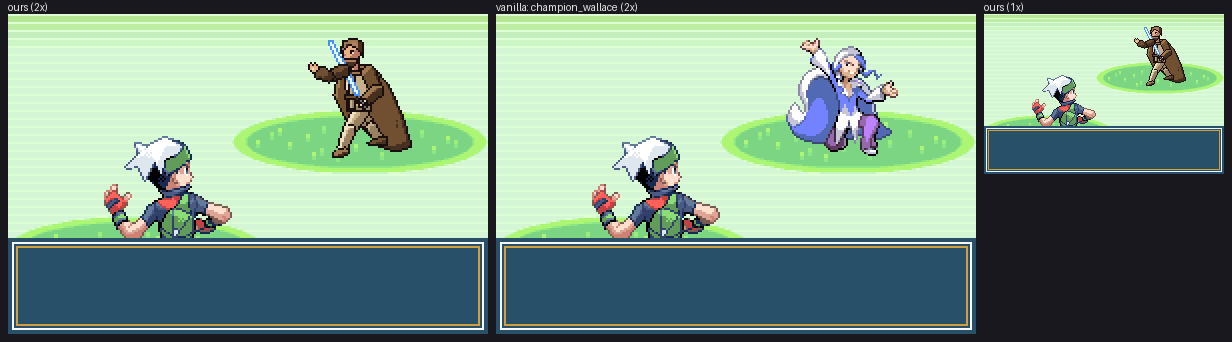
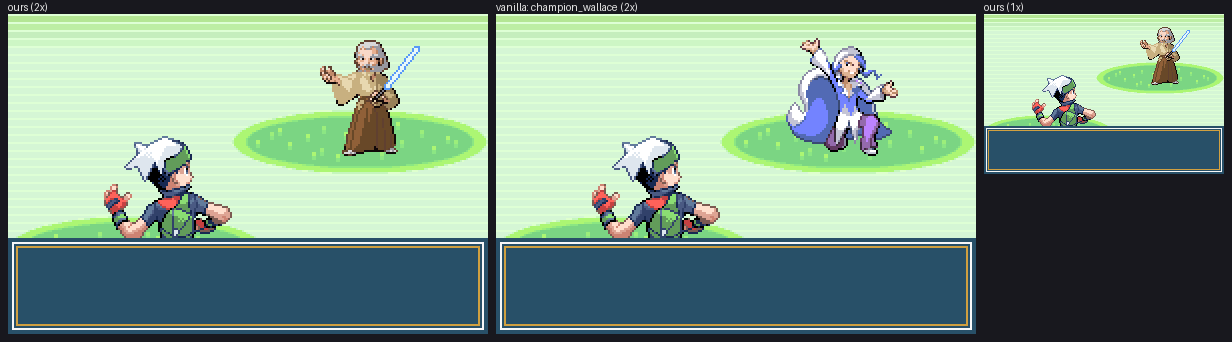
trainer-front: repaint tool (vanilla base + rig helpers), inspect command; Vader and Obi-Wan repaints

Changed region(s): [[0.2468, 0.117, 0.3393, 0.4678], [0.9253, 0.0585, 0.987, 0.2632]]

diff --git a/tools/emerald_sprite/rig.py b/tools/emerald_sprite/rig.py
@@ -18,6 +18,10 @@ the weight, which arm is near the camera) and like a pixel artist second (patche
           - {shape: capsule, from: hilt, to: [6, 58], r: [1, 1], ramp: WWW, outline: R}
       patches: [...]             # pixel-level detail on top (face, emblems, highlights)
 
+Repaint helpers (used on top of a `repaint:` vanilla base): `erase: true` on any shape cuts it
+out; `recolour: "a:b c:d"` on any shape swaps characters inside it; `shape: edge` with
+`chars: "jk"` and `to: d` darkens silhouette pixels of those characters (selective outline).
+
 Shapes: `pixels` (x, y, rows: hand-placed pixels, `_` keeps; use it for details that must sit
 *under* a later layer, e.g. a face the lightsaber passes in front of), `capsule` (from, to, r: [r_from, r_to]), `ellipse` (at, r: [rx, ry], angle: degrees
 clockwise), `poly` (pts).
@@ -106,10 +110,11 @@ def _mask(layer, joints, w, h, where):
     return m
 
 
-def render(rig: dict, legend: dict[str, int], w: int, h: int, where: str) -> list[list[int]]:
+def render(rig: dict, legend: dict[str, int], w: int, h: int, where: str, base=None) -> list[list[int]]:
+    """Draw the layers onto `base` (a grid, e.g. a repainted vanilla pic) or an empty frame."""
     joints = rig.get("joints", {})
     lx, ly = rig.get("light", LIGHT)
-    g = [[0] * w for _ in range(h)]
+    g = [list(r) for r in base] if base else [[0] * w for _ in range(h)]
     default_outline = "K" if "K" in legend else None
     for i, layer in enumerate(rig.get("layers", [])):
         lw = f"{where}: layer {i} ({layer.get('name', layer.get('shape'))})"
@@ -123,6 +128,32 @@ def render(rig: dict, legend: dict[str, int], w: int, h: int, where: str) -> lis
                         raise RigError(f"{lw}: character {ch!r} is not in the legend")
                     if 0 <= x0 + dx < w and 0 <= y0 + dy < h:
                         g[y0 + dy][x0 + dx] = legend[ch]
+            continue
+        if layer.get("shape") == "edge":  # silhouette pixels whose character is in `chars` -> `to`
+            on = {legend[c] for c in str(layer["chars"]) if c in legend}
+            to = legend[str(layer["to"])]
+            src = [list(r) for r in g]
+            for y in range(h):
+                for x in range(w):
+                    if src[y][x] in on and any(not (0 <= x + dx < w and 0 <= y + dy < h) or src[y + dy][x + dx] == 0
+                                               for dx, dy in ((1, 0), (-1, 0), (0, 1), (0, -1))):
+                        g[y][x] = to
+            continue
+        if layer.get("erase"):  # cut the shape out (back to transparent)
+            for (x, y) in _mask(layer, joints, w, h, lw):
+                if 0 <= x < w and 0 <= y < h:
+                    g[y][x] = 0
+            continue
+        if "recolour" in layer:  # inside the shape, swap characters: "a:b c:d"
+            sw = {}
+            for pair in str(layer["recolour"]).split():
+                a_, b_ = pair.split(":")
+                if a_ not in legend or b_ not in legend:
+                    raise RigError(f"{lw}: recolour {pair!r} uses a character not in the legend")
+                sw[legend[a_]] = legend[b_]
+            for (x, y) in _mask(layer, joints, w, h, lw):
+                if 0 <= x < w and 0 <= y < h:
+                    g[y][x] = sw.get(g[y][x], g[y][x])
             continue
         ramp = layer.get("ramp", "")
         if isinstance(ramp, bool):

diff --git a/tools/emerald_sprite/spec.py b/tools/emerald_sprite/spec.py
@@ -109,6 +109,49 @@ def _parse_rows(text: str, legend: dict[str, int], w: int, where: str) -> Grid:
     return rows
 
 
+def _repaint(rp: dict, legend: dict[str, int], w: int, h: int, where: str) -> Grid:
+    """Start from a vanilla pic's pixels, every palette index mapped to one of our characters.
+
+        repaint:
+          pic: graphics/trainers/front_pics/expert_m.png   # relative to EMERALD_DIR
+          flip: false                                      # mirror horizontally
+          offset: [0, 0]                                   # move the whole figure
+          remap: {1: K, 2: f, 3: e, ...}                   # vanilla index -> legend character
+
+    Every index the pic uses must be mapped (`python -m emerald_sprite inspect <png>` shows
+    which index is which material). Map an index to the transparent character to delete it.
+    """
+    import os
+
+    from PIL import Image
+
+    emerald = Path(os.environ.get("EMERALD_DIR", Path(__file__).resolve().parents[3] / "pokeemerald"))
+    src = emerald / rp["pic"]
+    if not src.exists():
+        raise SpecError(f"{where}: repaint pic {src} not found (set EMERALD_DIR)")
+    im = Image.open(src)
+    if im.mode != "P" or im.size != (w, h):
+        raise SpecError(f"{where}: repaint pic must be a {w}x{h} indexed PNG")
+    remap = {int(k): str(v) for k, v in (rp.get("remap") or {}).items()}
+    px = im.load()
+    used = {px[x, y] for y in range(h) for x in range(w)} - {0}
+    missing = sorted(used - set(remap))
+    if missing:
+        raise SpecError(f"{where}: repaint remap is missing vanilla indices {missing}")
+    for k, ch in remap.items():
+        if ch not in legend:
+            raise SpecError(f"{where}: repaint remap {k} -> {ch!r}: not in the legend")
+    ox, oy = rp.get("offset", [0, 0])
+    g = [[0] * w for _ in range(h)]
+    for y in range(h):
+        for x in range(w):
+            v = px[w - 1 - x if rp.get("flip") else x, y]
+            tx, ty = x + int(ox), y + int(oy)
+            if v and 0 <= tx < w and 0 <= ty < h:
+                g[ty][tx] = legend[remap[v]]
+    return g
+
+
 def _transparent(legend: dict[str, int]) -> str:
     for ch, idx in legend.items():
         if idx == 0:
@@ -151,6 +194,13 @@ def load(path: str | Path) -> Spec:
         where = f"frame {name}"
         if isinstance(f, str):
             g = _bottom_anchor(_parse_rows(f, legend, w, where), w, h, where)
+        elif "repaint" in f:
+            g = _repaint(f["repaint"], legend, w, h, where)
+            if "rig" in f:
+                try:
+                    g = rig_mod.render(f["rig"], legend, w, h, where, base=g)
+                except rig_mod.RigError as e:
+                    raise SpecError(str(e)) from None
         elif "rig" in f:
             try:
                 g = rig_mod.render(f["rig"], legend, w, h, where)

diff --git a/tools/emerald_sprite/cli.py b/tools/emerald_sprite/cli.py
@@ -222,6 +222,46 @@ def cmd_audit(a) -> int:
     return 1 if r["unassigned"] else 0
 
 
+def cmd_inspect(a) -> int:
+    """Material map of an indexed PNG: each palette index in a false colour with its number, so
+    a repaint `remap:` can be written (which index is skin, hair, coat, outline...)."""
+    from PIL import Image, ImageDraw
+
+    im = Image.open(a.png)
+    pal = im.getpalette()[:48]
+    px = im.load()
+    counts = {}
+    for y in range(im.height):
+        for x in range(im.width):
+            counts[px[x, y]] = counts.get(px[x, y], 0) + 1
+    false = [(0, 0, 0), (255, 0, 0), (0, 200, 0), (0, 80, 255), (255, 200, 0), (255, 0, 255), (0, 220, 220), (255, 128, 0),
+             (128, 0, 255), (0, 128, 64), (160, 80, 40), (255, 160, 200), (120, 120, 120), (200, 255, 120), (0, 0, 128), (255, 255, 255)]
+    z = 6
+    W = im.width * z * 2 + 260
+    out = Image.new("RGB", (W, max(im.height * z, 16 * 22 + 10)), (30, 30, 36))
+    real = Image.new("RGB", im.size, (115, 197, 164))
+    fc = Image.new("RGB", im.size, (40, 40, 48))
+    for y in range(im.height):
+        for x in range(im.width):
+            v = px[x, y]
+            if v:
+                real.putpixel((x, y), tuple(pal[v * 3 : v * 3 + 3]))
+                fc.putpixel((x, y), false[v])
+    out.paste(real.resize((im.width * z, im.height * z), Image.NEAREST), (0, 0))
+    out.paste(fc.resize((im.width * z, im.height * z), Image.NEAREST), (im.width * z, 0))
+    d = ImageDraw.Draw(out)
+    x0 = im.width * z * 2 + 10
+    for i in range(16):
+        y = 6 + i * 22
+        d.rectangle([x0, y, x0 + 16, y + 16], fill=false[i])
+        d.rectangle([x0 + 20, y, x0 + 36, y + 16], fill=tuple(pal[i * 3 : i * 3 + 3]))
+        d.text((x0 + 42, y + 3), f"{i:>2}  {tuple(pal[i * 3 : i * 3 + 3])}  {counts.get(i, 0)} px", fill=(230, 230, 230))
+        print(f"{i:>2} {tuple(pal[i * 3 : i * 3 + 3])!s:<18} {counts.get(i, 0):>5} px")
+    out.save(a.out)
+    print(f"wrote {a.out}")
+    return 0
+
+
 def main(argv=None) -> int:
     p = argparse.ArgumentParser(prog="emerald_sprite")
     sub = p.add_subparsers(dest="cmd", required=True)
@@ -235,6 +275,10 @@ def main(argv=None) -> int:
         sp.add_argument(arg)
         sp.set_defaults(fn=fn)
     sub.add_parser("corpus").set_defaults(fn=cmd_corpus)
+    ip = sub.add_parser("inspect")
+    ip.add_argument("png")
+    ip.add_argument("out")
+    ip.set_defaults(fn=cmd_inspect)
     ap = sub.add_parser("audit")
     ap.add_argument("--write", action="store_true")
     ap.set_defaults(fn=cmd_audit)
